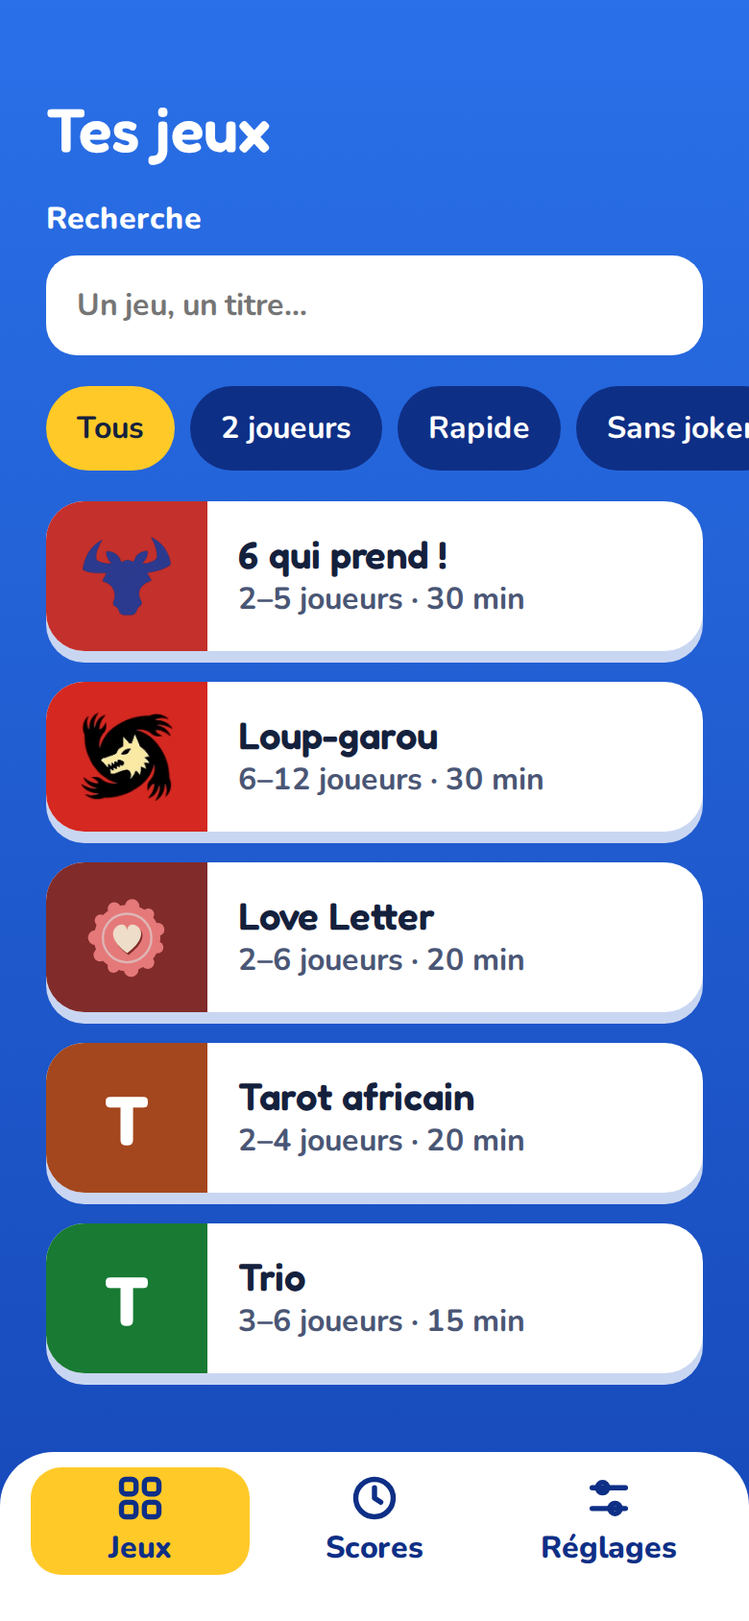
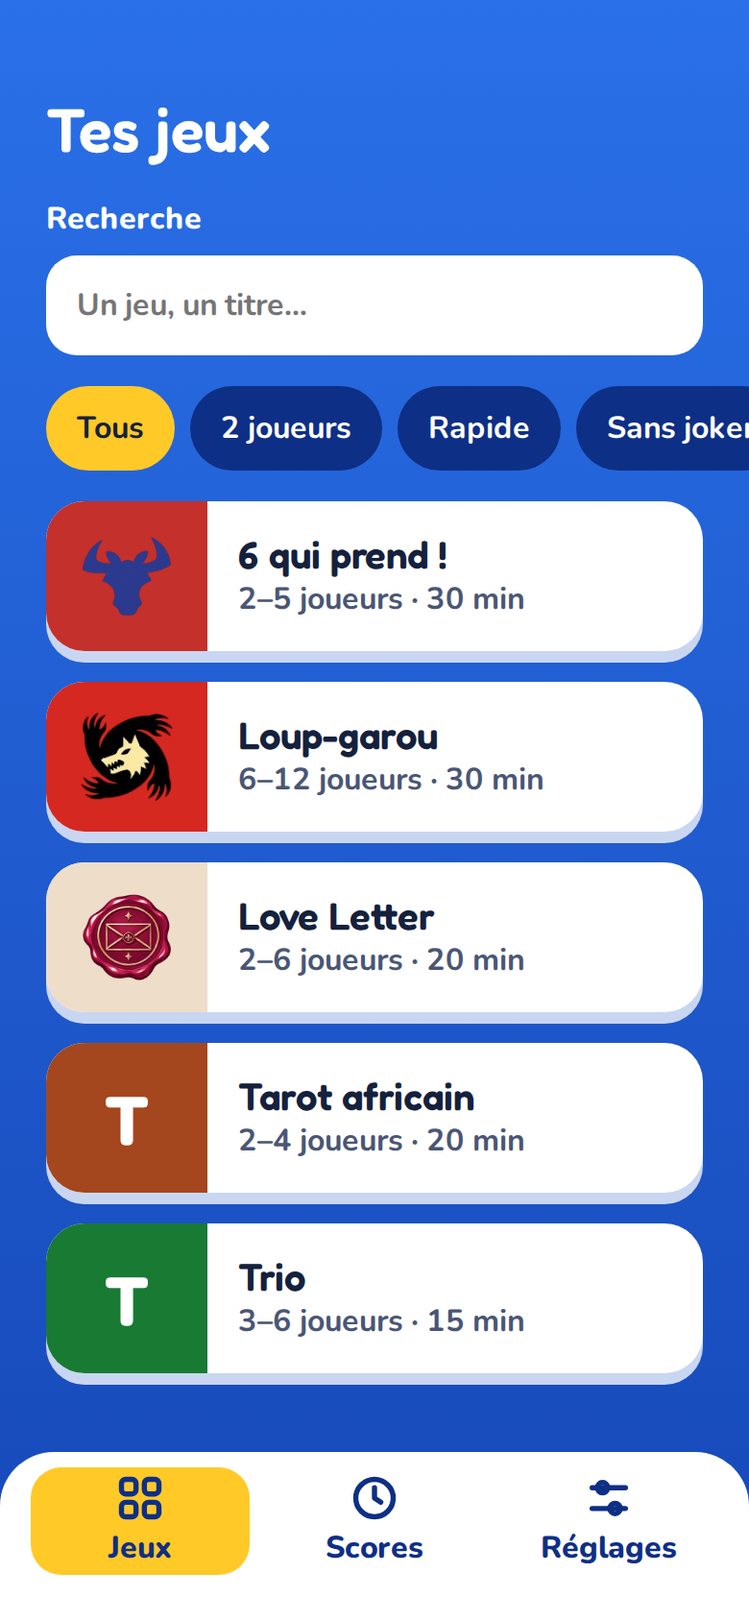
Love Letter : nouveau sceau de cire sur une vignette crème
Logo : sceau cramoisi à l'enveloppe dorée (image fournie, détourée, sans les gouttes).
Nouveau champ tile_color : fond du carré de la vignette de l'accueil (défaut main_color).

Changed region(s): [[0.0615, 0.5237, 0.2769, 0.6469]]

diff --git a/maquettes/love-letter/source/02-accueil.html b/maquettes/love-letter/source/02-accueil.html
@@ -1,1 +1,1 @@
-<!doctype html><html lang="fr"><head><meta charset="utf-8"><title>Love Letter · Games</title><link rel="stylesheet" href="https://fonts.googleapis.com/css2?family=Fredoka:wght@500;600;700&amp;family=Nunito:wght@600;700;800&amp;family=Great+Vibes&amp;display=swap"><style>*{box-sizing:border-box}body{margin:0}button,input{font-family:Nunito,sans-serif}</style></head><body><div style="width:390px;height:844px;box-sizing:border-box;overflow:hidden;display:flex;flex-direction:column;font-family:Nunito,sans-serif;font-weight:700;font-size:16px;color:#fff;background:linear-gradient(180deg,#2A70E8,#1648B8)"><div style="padding:48px 24px 24px;display:flex;flex-direction:column;gap:16px;flex:1;"><h1 style="margin:0;font-family:Fredoka,sans-serif;font-weight:600;font-size:32px;color:#fff">Tes jeux</h1><label style="display:flex;flex-direction:column;gap:8px;color:#fff;font-weight:800">Recherche<input type="text" placeholder="Un jeu, un titre…" style="min-height:52px;box-sizing:border-box;border:0;border-radius:16px;padding:0 16px;font-size:16px;font-weight:700;color:#14213D"></label><div style="display:flex;gap:8px;margin:0 -24px;padding:0 24px;overflow:hidden"><span style="flex:none;white-space:nowrap;min-height:44px;box-sizing:border-box;display:inline-flex;align-items:center;padding:0 16px;border-radius:22px;background:#FFC928;color:#14213D">Tous</span><span style="flex:none;white-space:nowrap;min-height:44px;box-sizing:border-box;display:inline-flex;align-items:center;padding:0 16px;border-radius:22px;background:#0E2F86;color:#fff">2 joueurs</span><span style="flex:none;white-space:nowrap;min-height:44px;box-sizing:border-box;display:inline-flex;align-items:center;padding:0 16px;border-radius:22px;background:#0E2F86;color:#fff">Rapide</span><span style="flex:none;white-space:nowrap;min-height:44px;box-sizing:border-box;display:inline-flex;align-items:center;padding:0 16px;border-radius:22px;background:#0E2F86;color:#fff">Sans joker</span></div><div style="display:flex;border-radius:20px;overflow:hidden;background:#fff;box-shadow:0 6px 0 #C9D6F2"><div style="width:84px;background:#C4302B;color:#fff;display:flex;align-items:center;justify-content:center;font-family:Fredoka,sans-serif;font-weight:700;font-size:36px"><img src="/__games/6-qui-prend/logo.png" alt="" style="width:60%;height:60%;object-fit:contain"></div><div style="padding:16px;color:#14213D"><div style="font-family:Fredoka,sans-serif;font-weight:600;font-size:20px">6 qui prend !</div><div style="color:#4A5675">2–5 joueurs · 30 min</div></div></div><div style="display:flex;border-radius:20px;overflow:hidden;background:#fff;box-shadow:0 6px 0 #C9D6F2"><div style="width:84px;background:#D42821;color:#fff;display:flex;align-items:center;justify-content:center;font-family:Fredoka,sans-serif;font-weight:700;font-size:36px"><img src="/__games/loup-garou/logo.png" alt="" style="width:60%;height:60%;object-fit:contain"></div><div style="padding:16px;color:#14213D"><div style="font-family:Fredoka,sans-serif;font-weight:600;font-size:20px">Loup-garou</div><div style="color:#4A5675">6–12 joueurs · 30 min</div></div></div><div style="display:flex;border-radius:20px;overflow:hidden;background:#fff;box-shadow:0 6px 0 #C9D6F2"><div style="width:84px;background:#812B2B;color:#EEDDC8;display:flex;align-items:center;justify-content:center;font-family:Fredoka,sans-serif;font-weight:700;font-size:36px"><svg aria-hidden="true" viewBox="0 0 100 100" style="width:60%;height:60%"><g fill="#E57979"><circle cx="50" cy="50" r="37"/><circle cx="83.9" cy="60.5" r="6.5"/><circle cx="72.9" cy="77.2" r="7.3"/><circle cx="54.5" cy="85.2" r="8.1"/><circle cx="34.8" cy="82.1" r="6.5"/><circle cx="19.9" cy="68.8" r="7.3"/><circle cx="14.5" cy="49.5" r="8.1"/><circle cx="20.4" cy="30.4" r="6.5"/><circle cx="35.7" cy="17.5" r="7.3"/><circle cx="55.6" cy="14.9" r="8.1"/><circle cx="73.6" cy="23.5" r="6.5"/><circle cx="84.2" cy="40.5" r="7.3"/></g><circle cx="50" cy="50" r="27" fill="none" stroke="#DFB6B6" stroke-width="2.5"/><path d="M50 90 C8 60 4 30 26 17 C39 10 50 18 50 30 C50 18 61 10 74 17 C96 30 92 60 50 90 Z" transform="translate(30.5 31) scale(0.42)" fill="#812B2B"/><path d="M50 90 C8 60 4 30 26 17 C39 10 50 18 50 30 C50 18 61 10 74 17 C96 30 92 60 50 90 Z" transform="translate(29 29) scale(0.42)" fill="#EEDDC8"/></svg></div><div style="padding:16px;color:#14213D"><div style="font-family:Fredoka,sans-serif;font-weight:600;font-size:20px">Love Letter</div><div style="color:#4A5675">2–6 joueurs · 20 min</div></div></div><div style="display:flex;border-radius:20px;overflow:hidden;background:#fff;box-shadow:0 6px 0 #C9D6F2"><div style="width:84px;background:#A4471E;color:#fff;display:flex;align-items:center;justify-content:center;font-family:Fredoka,sans-serif;font-weight:700;font-size:36px">T</div><div style="padding:16px;color:#14213D"><div style="font-family:Fredoka,sans-serif;font-weight:600;font-size:20px">Tarot africain</div><div style="color:#4A5675">2–4 joueurs · 20 min</div></div></div><div style="display:flex;border-radius:20px;overflow:hidden;background:#fff;box-shadow:0 6px 0 #C9D6F2"><div style="width:84px;background:#187A33;color:#fff;display:flex;align-items:center;justify-content:center;font-family:Fredoka,sans-serif;font-weight:700;font-size:36px">T</div><div style="padding:16px;color:#14213D"><div style="font-family:Fredoka,sans-serif;font-weight:600;font-size:20px">Trio</div><div style="color:#4A5675">3–6 joueurs · 15 min</div></div></div></div><nav data-component="BottomNav" style="display:flex;gap:8px;padding:8px 16px 24px;background:#fff;border-radius:28px 28px 0 0"><div style="flex:1;min-height:56px;display:flex;flex-direction:column;align-items:center;justify-content:center;gap:2px;border-radius:16px;background:#FFC928;color:#0E2F86;font-size:16px;font-weight:800"><svg aria-hidden="true" width="26" height="26" viewBox="0 0 24 24" fill="none" stroke="#0E2F86" stroke-width="2.5" stroke-linecap="round" stroke-linejoin="round"><rect x="3" y="3" width="7" height="7" rx="2"></rect><rect x="14" y="3" width="7" height="7" rx="2"></rect><rect x="3" y="14" width="7" height="7" rx="2"></rect><rect x="14" y="14" width="7" height="7" rx="2"></rect></svg>Jeux</div><div style="flex:1;min-height:56px;display:flex;flex-direction:column;align-items:center;justify-content:center;gap:2px;border-radius:16px;background:transparent;color:#0E2F86;font-size:16px;font-weight:800"><svg aria-hidden="true" width="26" height="26" viewBox="0 0 24 24" fill="none" stroke="#0E2F86" stroke-width="2.5" stroke-linecap="round" stroke-linejoin="round"><circle cx="12" cy="12" r="9"></circle><path d="M12 7v5l3 2"></path></svg>Scores</div><div style="flex:1;min-height:56px;display:flex;flex-direction:column;align-items:center;justify-content:center;gap:2px;border-radius:16px;background:transparent;color:#0E2F86;font-size:16px;font-weight:800"><svg aria-hidden="true" width="26" height="26" viewBox="0 0 24 24" fill="none" stroke="#0E2F86" stroke-width="2.5" stroke-linecap="round" stroke-linejoin="round"><path d="M4 7h16M4 17h16"></path><circle cx="9" cy="7" r="2.5"></circle><circle cx="15" cy="17" r="2.5"></circle></svg>Réglages</div></nav></div></body></html>
+<!doctype html><html lang="fr"><head><meta charset="utf-8"><title>Love Letter · Games</title><link rel="stylesheet" href="https://fonts.googleapis.com/css2?family=Fredoka:wght@500;600;700&amp;family=Nunito:wght@600;700;800&amp;family=Great+Vibes&amp;display=swap"><style>*{box-sizing:border-box}body{margin:0}button,input{font-family:Nunito,sans-serif}</style></head><body><div style="width:390px;height:844px;box-sizing:border-box;overflow:hidden;display:flex;flex-direction:column;font-family:Nunito,sans-serif;font-weight:700;font-size:16px;color:#fff;background:linear-gradient(180deg,#2A70E8,#1648B8)"><div style="padding:48px 24px 24px;display:flex;flex-direction:column;gap:16px;flex:1;"><h1 style="margin:0;font-family:Fredoka,sans-serif;font-weight:600;font-size:32px;color:#fff">Tes jeux</h1><label style="display:flex;flex-direction:column;gap:8px;color:#fff;font-weight:800">Recherche<input type="text" placeholder="Un jeu, un titre…" style="min-height:52px;box-sizing:border-box;border:0;border-radius:16px;padding:0 16px;font-size:16px;font-weight:700;color:#14213D"></label><div style="display:flex;gap:8px;margin:0 -24px;padding:0 24px;overflow:hidden"><span style="flex:none;white-space:nowrap;min-height:44px;box-sizing:border-box;display:inline-flex;align-items:center;padding:0 16px;border-radius:22px;background:#FFC928;color:#14213D">Tous</span><span style="flex:none;white-space:nowrap;min-height:44px;box-sizing:border-box;display:inline-flex;align-items:center;padding:0 16px;border-radius:22px;background:#0E2F86;color:#fff">2 joueurs</span><span style="flex:none;white-space:nowrap;min-height:44px;box-sizing:border-box;display:inline-flex;align-items:center;padding:0 16px;border-radius:22px;background:#0E2F86;color:#fff">Rapide</span><span style="flex:none;white-space:nowrap;min-height:44px;box-sizing:border-box;display:inline-flex;align-items:center;padding:0 16px;border-radius:22px;background:#0E2F86;color:#fff">Sans joker</span></div><div style="display:flex;border-radius:20px;overflow:hidden;background:#fff;box-shadow:0 6px 0 #C9D6F2"><div style="width:84px;background:#C4302B;color:#fff;display:flex;align-items:center;justify-content:center;font-family:Fredoka,sans-serif;font-weight:700;font-size:36px"><img src="/__games/6-qui-prend/logo.png" alt="" style="width:60%;height:60%;object-fit:contain"></div><div style="padding:16px;color:#14213D"><div style="font-family:Fredoka,sans-serif;font-weight:600;font-size:20px">6 qui prend !</div><div style="color:#4A5675">2–5 joueurs · 30 min</div></div></div><div style="display:flex;border-radius:20px;overflow:hidden;background:#fff;box-shadow:0 6px 0 #C9D6F2"><div style="width:84px;background:#D42821;color:#fff;display:flex;align-items:center;justify-content:center;font-family:Fredoka,sans-serif;font-weight:700;font-size:36px"><img src="/__games/loup-garou/logo.png" alt="" style="width:60%;height:60%;object-fit:contain"></div><div style="padding:16px;color:#14213D"><div style="font-family:Fredoka,sans-serif;font-weight:600;font-size:20px">Loup-garou</div><div style="color:#4A5675">6–12 joueurs · 30 min</div></div></div><div style="display:flex;border-radius:20px;overflow:hidden;background:#fff;box-shadow:0 6px 0 #C9D6F2"><div style="width:84px;background:#EEDDC8;color:#14213D;display:flex;align-items:center;justify-content:center;font-family:Fredoka,sans-serif;font-weight:700;font-size:36px"><img src="/__games/love-letter/logo.png" alt="" style="width:60%;height:60%;object-fit:contain"></div><div style="padding:16px;color:#14213D"><div style="font-family:Fredoka,sans-serif;font-weight:600;font-size:20px">Love Letter</div><div style="color:#4A5675">2–6 joueurs · 20 min</div></div></div><div style="display:flex;border-radius:20px;overflow:hidden;background:#fff;box-shadow:0 6px 0 #C9D6F2"><div style="width:84px;background:#A4471E;color:#fff;display:flex;align-items:center;justify-content:center;font-family:Fredoka,sans-serif;font-weight:700;font-size:36px">T</div><div style="padding:16px;color:#14213D"><div style="font-family:Fredoka,sans-serif;font-weight:600;font-size:20px">Tarot africain</div><div style="color:#4A5675">2–4 joueurs · 20 min</div></div></div><div style="display:flex;border-radius:20px;overflow:hidden;background:#fff;box-shadow:0 6px 0 #C9D6F2"><div style="width:84px;background:#187A33;color:#fff;display:flex;align-items:center;justify-content:center;font-family:Fredoka,sans-serif;font-weight:700;font-size:36px">T</div><div style="padding:16px;color:#14213D"><div style="font-family:Fredoka,sans-serif;font-weight:600;font-size:20px">Trio</div><div style="color:#4A5675">3–6 joueurs · 15 min</div></div></div></div><nav data-component="BottomNav" style="display:flex;gap:8px;padding:8px 16px 24px;background:#fff;border-radius:28px 28px 0 0"><div style="flex:1;min-height:56px;display:flex;flex-direction:column;align-items:center;justify-content:center;gap:2px;border-radius:16px;background:#FFC928;color:#0E2F86;font-size:16px;font-weight:800"><svg aria-hidden="true" width="26" height="26" viewBox="0 0 24 24" fill="none" stroke="#0E2F86" stroke-width="2.5" stroke-linecap="round" stroke-linejoin="round"><rect x="3" y="3" width="7" height="7" rx="2"></rect><rect x="14" y="3" width="7" height="7" rx="2"></rect><rect x="3" y="14" width="7" height="7" rx="2"></rect><rect x="14" y="14" width="7" height="7" rx="2"></rect></svg>Jeux</div><div style="flex:1;min-height:56px;display:flex;flex-direction:column;align-items:center;justify-content:center;gap:2px;border-radius:16px;background:transparent;color:#0E2F86;font-size:16px;font-weight:800"><svg aria-hidden="true" width="26" height="26" viewBox="0 0 24 24" fill="none" stroke="#0E2F86" stroke-width="2.5" stroke-linecap="round" stroke-linejoin="round"><circle cx="12" cy="12" r="9"></circle><path d="M12 7v5l3 2"></path></svg>Scores</div><div style="flex:1;min-height:56px;display:flex;flex-direction:column;align-items:center;justify-content:center;gap:2px;border-radius:16px;background:transparent;color:#0E2F86;font-size:16px;font-weight:800"><svg aria-hidden="true" width="26" height="26" viewBox="0 0 24 24" fill="none" stroke="#0E2F86" stroke-width="2.5" stroke-linecap="round" stroke-linejoin="round"><path d="M4 7h16M4 17h16"></path><circle cx="9" cy="7" r="2.5"></circle><circle cx="15" cy="17" r="2.5"></circle></svg>Réglages</div></nav></div></body></html>

diff --git a/src/data/theme.ts b/src/data/theme.ts
@@ -25,6 +25,8 @@ export interface GameTheme {
   text: string
   /** Ombre en relief de `main`. */
   shadow: string
+  /** Carré de la vignette sur l'accueil (`tile_color`, défaut `main`) et texte de l'initiale dessus. */
+  tile: { bg: string; text: string }
   /** Fond des écrans du jeu. Absent : le bleu de l'app. */
   screen?: ScreenTheme
   /** Couleur du dos des cartes. */
@@ -90,22 +92,26 @@ type ThemeInput = Pick<Game, 'main_color' | 'font'> &
       | 'background_text_color'
       | 'card_back_color'
       | 'card_back_stripe_color'
+      | 'tile_color'
     >
   >
 
 /**
  * Thème d'un jeu : `main_color` (avec son texte et son ombre, calculés ou donnés par `text_color` et `shadow_color`),
- * fond des écrans (`background_color`, avec son texte), dos des cartes (`card_back_color`, par défaut `main_color`).
+ * vignette de l'accueil (`tile_color`, défaut `main_color`), fond des écrans (`background_color`, avec son texte), dos des cartes (`card_back_color`, par défaut `main_color`).
  * Refuse tout texte sous 4,5 de contraste. Le test des jeux garantit qu'aucun jeu livré ne lève cette erreur.
  */
 export function resolveGameTheme(game: ThemeInput): GameTheme {
   const main = colorHex(game.main_color)
+  const text = resolveText('le tapis', [main], game.text_color, 'text_color')
+  const tile = game.tile_color?.toUpperCase()
   const base = game.background_color ? colorHex(game.background_color) : undefined
   const ends = base ? [base, tint(base, GRADIENT_TOP_KEEP), shade(base, GRADIENT_BOTTOM_KEEP)] : []
   return {
     main,
-    text: resolveText('le tapis', [main], game.text_color, 'text_color'),
+    text,
     shadow: game.shadow_color?.toUpperCase() ?? shadowOfMain(game.main_color, main),
+    tile: tile ? { bg: tile, text: resolveText('la vignette', [tile], undefined, 'tile_color') } : { bg: main, text },
     screen: base
       ? {
           base,

diff --git a/src/data/games.test.ts b/src/data/games.test.ts
@@ -267,6 +267,7 @@ describe.each(games.map((game) => [game.id, game] as const))('jeu « %s »', (id
     it('a un contraste texte / fond d’au moins 4,5', () => {
       const theme = resolveGameTheme(game)
       expect(contrastRatio(theme.main, theme.text)).toBeGreaterThanOrEqual(MIN_CONTRAST)
+      expect(contrastRatio(theme.tile.bg, theme.tile.text), 'vignette').toBeGreaterThanOrEqual(MIN_CONTRAST)
     })
 
     it('a un texte lisible sur tout le fond des écrans, s’il en donne un', () => {
@@ -575,7 +576,7 @@ describe('Love Letter', () => {
     expect(ll.tutorial.setup.center.every((item) => !item.card)).toBe(true)
   })
 
-  it('prend la palette bordeaux : couleur du jeu, relief, texte et fond crème, dos corail, sceau de cire pour logo', () => {
+  it('prend la palette bordeaux : couleur du jeu, relief, texte et fond crème, dos corail, sceau de cire sur crème pour logo', () => {
     const theme = resolveGameTheme(ll)
     expect(theme.main).toBe('#812B2B')
     expect(theme.shadow).toBe('#400E0E')
@@ -583,8 +584,10 @@ describe('Love Letter', () => {
     expect(theme.screen?.base).toBe('#EEDDC8')
     expect(theme.screen?.text).toBe(tokens.colors.encre)
     expect(theme.cardBack).toBe('#E57979')
-    expect(ll.logo).toBe('logo.svg')
+    expect(ll.logo).toBe('logo.png')
     expect(logoUrl(ll)).toBeTruthy()
+    // Le sceau cramoisi se fondrait dans le bordeaux : la vignette est crème, l'initiale (inutile ici) en encre.
+    expect(theme.tile).toEqual({ bg: '#EEDDC8', text: tokens.colors.encre })
   })
 
   it('dessine les 10 cartes d’origine, de 0 à 9, avec leur nom', () => {

diff --git a/src/components/GameTile/GameTile.tsx b/src/components/GameTile/GameTile.tsx
@@ -1,3 +1,4 @@
+import type { CSSProperties } from 'react'
 import { Link } from 'react-router'
 import { fr } from '../../i18n/fr.ts'
 import { logoUrl } from '../../data/games.ts'
@@ -12,14 +13,16 @@ export interface GameTileProps {
 }
 
 /**
- * Vignette d'un jeu sur l'accueil : un carré aux couleurs du jeu avec son logo ou son initiale, puis le nom
+ * Vignette d'un jeu sur l'accueil : un carré aux couleurs du jeu (ou `tile_color`) avec son logo ou son initiale, puis le nom
  * et « 2–4 joueurs · 20 min » sur fond blanc.
  */
 export function GameTile({ game }: GameTileProps) {
   const theme = resolveGameTheme(game)
   const url = logoUrl(game)
+  // Le carré a sa propre couleur (`tile_color`, défaut la couleur du jeu) : un logo qui se fondrait dans le tapis.
+  const style = { ...themeStyle(theme), '--tile-bg': theme.tile.bg, '--tile-fg': theme.tile.text } as CSSProperties
   return (
-    <Link to={paths.game(game.id)} className={styles.tile} style={themeStyle(theme)}>
+    <Link to={paths.game(game.id)} className={styles.tile} style={style}>
       <span className={styles.mark} aria-hidden="true">
         {url ? <img className={styles.image} src={url} alt="" /> : game.name.charAt(0).toUpperCase()}
       </span>

diff --git a/src/data/types.ts b/src/data/types.ts
@@ -249,6 +249,8 @@ interface GameBase {
   text_color?: string
   /** Nom d'un fichier du dossier du jeu (svg ou png). Absent : initiale dans un rond blanc. */
   logo?: string
+  /** Couleur libre `#RRGGBB` du carré de la vignette sur l'accueil, derrière le logo. Absent : le tapis. */
+  tile_color?: string
   /** Phrase d'accroche en gras, sur la page du jeu. */
   tagline: string
   /** Texte qui suit la phrase d'accroche. */

diff --git a/src/components/GameTile/GameTile.module.css b/src/components/GameTile/GameTile.module.css
@@ -29,8 +29,8 @@
   align-items: center;
   justify-content: center;
   width: calc(var(--mc-space-5) * 1.75);
-  background: var(--game-bg);
-  color: var(--game-fg);
+  background: var(--tile-bg, var(--game-bg));
+  color: var(--tile-fg, var(--game-fg));
   font-family: var(--mc-font-title);
   font-weight: 700;
   font-size: calc(var(--mc-text-min) * 2.25);

diff --git a/docs/CAHIER_DES_CHARGES.md b/docs/CAHIER_DES_CHARGES.md
@@ -142,7 +142,7 @@ Règle de contraste automatique : calculer le ratio WCAG entre la couleur de fon
 ## 6. Contraintes légales (point bloquant)
 
 - **Ne jamais reproduire** les logos, lettrages ou illustrations officiels.
-- Évocation **originale** seulement. Ex. Love Letter : police calligraphique libre (Great Vibes) + sceau de cire **redessiné**.
+- Évocation **originale** seulement. Ex. Love Letter : police calligraphique libre (Great Vibes) + sceau de cire **original** (image générique fournie par l'utilisateur, détourée).
 - Les noms de jeux sont cités à titre descriptif. **Droits à vérifier avant publication** (marques, règles, stores).
 - Vérifier la licence de chaque police et de chaque asset.
 - Ajouter une mention dans l'app : « Application non officielle, sans lien avec les éditeurs des jeux cités. »
@@ -229,7 +229,7 @@ Premier lancement, liste vide, jeu / groupe / page introuvable (avec retour), pa
 | **Love Letter** : 21 cartes, règle de l'édition 2019 (10 personnages de 0 à 9, 2 à 6 joueurs), au lieu des 16 de la galerie | Règles données par l'utilisateur (nos-jeux-de-societe.fr). Les jokers sont les Espionnes, la dame de cœur est la Princesse, les 6 Gardes sont 4 valets et 2 rois noirs, valeur = rang pour 2 à 8 ; « Garde ces 21 cartes, dont 2 jokers. Retire tout le reste du paquet. » |
 | **Love Letter** : lignes de liste au format de Trio (« Valets et rois noirs » / « 6 cartes » / « Devine… ») ; vue à balayer, mise en place sans la ligne vide, sources reconstruites d'après Trio | La galerie est une version antérieure : la mise en page validée de Trio prime. En mode connaisseur la ligne dit le nom d'origine (« Garde »). |
 | **Love Letter** : textes « Fin de manche » et « Cas particuliers » | La galerie contient des `[…]` : textes rédigés d'après la règle (1 point par manche, jokers, égalités, 6 / 5 / 4 / 3 / 3 points), à relire. Les textes de détail des groupes aussi. Les maquettes 02, 03, 04, 05, 06, 07, 08, 09 ont été refaites pour la nouvelle règle. |
-| **Love Letter** : tapis bordeaux #812B2B, ombre brun #400E0E, texte crème #EEDDC8 et logo en sceau de cire, au lieu du rouge de la charte et de la lettre « L » | Palette fournie par l'utilisateur. Le rose #DFB6B6 et le corail #E57979 ne servent qu'au logo (1,8 et 2,9 de contraste sur blanc). Maquettes 02, 03 et 10 refaites. |
+| **Love Letter** : tapis bordeaux #812B2B, ombre brun #400E0E, texte crème #EEDDC8 et logo en sceau de cire (cramoisi, enveloppe dorée) sur une vignette crème (`tile_color`), au lieu du rouge de la charte et de la lettre « L » | Palette fournie par l'utilisateur. Le sceau se fondrait dans le bordeaux : seule la vignette de l'accueil passe au crème. Le corail #E57979 ne sert qu'au dos des cartes. Maquettes 02, 03 et 10 refaites. |
 | **Love Letter** : mise en place sans les 3 cartes visibles à 2 joueurs | Le mode particulier à 2 joueurs est abandonné (demande de l'utilisateur) : schéma à deux éléments, quatre étapes, pas de « Cas particuliers ». Maquettes 04 et 08 refaites. |
 | **Love Letter** : fond **crème** sur tous les écrans du jeu (au lieu du bleu), pastilles et bascules bordeaux, texte encre, relief « tan » des surfaces blanches, dos corail | Nouveau principe `background_color` (demande de l'utilisateur) : l'écran du jeu prend la palette. Maquettes 03 à 09 et 11 à 13 refaites ; 02, 14 et 15 (hors du jeu) gardent le bleu. |
 | Mise en place : la table à quatre mains, le centre au milieu, au lieu de deux éléments côte à côte | Demande de l'utilisateur : montrer la table entière (les mains des joueurs et ce qui se pose au centre). Les mains sont en éventail incliné, comme celles de « Tes cartes » ; le centre de Trio est en cartes alignées ; les quatre mains sont à la même distance du centre. « Un tour » montre **la même table** (mêmes dimensions, mêmes positions, mêmes légendes) avec quelques cartes retournées ; la page peut alors défiler (choix de l'utilisateur). Ses étapes sont resserrées. Maquettes de Trio 05 et 06 et de Love Letter 08 et 09 refaites. |
@@ -284,7 +284,8 @@ shadow_color: '#400E0E' # brun
 text_color: '#EEDDC8' # crème
 background_color: '#EEDDC8' # fond des écrans du jeu
 card_back_color: '#E57979' # corail
-logo: logo.svg # sceau de cire
+logo: logo.png # sceau de cire
+tile_color: '#EEDDC8' # vignette crème
 tagline: Une lettre. Une princesse. Un seul gagnant.
 description: …
 players: { min: 2, max: 6 }
@@ -361,7 +362,7 @@ Un test automatisé (`src/data/games.test.ts`, Vitest + Ajv) vérifie **chaque j
 
 ### 9.3 Jeux livrés en v1
 1. **Trio** *(réalisé, d'après les maquettes)*. Fin automatique au 3e trio. 36 cartes d'origine (valeurs 1 à 12 en trois exemplaires) jouées avec le paquet de 52 : on garde pique, cœur et trèfle de l'As à la Dame, et on **retire les carreaux et les rois**. As = 1, Valet = 11, Dame = 12. Six groupes : A, 2 à 6, 7 (« Spécial »), 8 à 10, Valet, Dame. 3 à 6 joueurs, environ 15 minutes. Le mode « Piquant » n'est pas jouable : ses liens entre numéros sont imprimés sur les cartes d'origine.
-2. **Love Letter** *(réalisé, règle de l'édition 2019)*. 2 à 6 joueurs, 20 minutes, nom en Great Vibes, palette bordeaux (tapis #812B2B, ombre #400E0E, texte crème #EEDDC8) et un sceau de cire original (corail, rose, crème) en logo. **21 cartes**, valeur = rang : Espionne 0 = les 2 **jokers** (rien ne se passe quand on la joue ; 1 point en fin de manche si l'on est en vie et **seul** à en avoir une devant soi) ; Garde 1 = 4 valets et 2 rois noirs (×6) ; Prêtre 2, Baron 3, Servante 4, Prince 5, Chancelier 6 (×2 chacun, cœur et pique) ; Roi 7 = 7♥ ; Comtesse 8 = 8♠ ; Princesse 9 = la **dame de cœur**. Dix groupes. Tout le reste du paquet est retiré. Une manche rapporte 1 point (2 au plus avec les jokers) ; le premier à 6, 5, 4, 3 ou 3 points gagne à 2, 3, 4, 5 ou 6 joueurs.
+2. **Love Letter** *(réalisé, règle de l'édition 2019)*. 2 à 6 joueurs, 20 minutes, nom en Great Vibes, palette bordeaux (tapis #812B2B, ombre #400E0E, texte crème #EEDDC8) et un sceau de cire cramoisi à l'enveloppe dorée en logo (`logo.png`, image fournie par l'utilisateur, détourée, sans les gouttes), sur une vignette crème (`tile_color`). **21 cartes**, valeur = rang : Espionne 0 = les 2 **jokers** (rien ne se passe quand on la joue ; 1 point en fin de manche si l'on est en vie et **seul** à en avoir une devant soi) ; Garde 1 = 4 valets et 2 rois noirs (×6) ; Prêtre 2, Baron 3, Servante 4, Prince 5, Chancelier 6 (×2 chacun, cœur et pique) ; Roi 7 = 7♥ ; Comtesse 8 = 8♠ ; Princesse 9 = la **dame de cœur**. Dix groupes. Tout le reste du paquet est retiré. Une manche rapporte 1 point (2 au plus avec les jokers) ; le premier à 6, 5, 4, 3 ou 3 points gagne à 2, 3, 4, 5 ou 6 joueurs.
 
 3. **6 qui prend !** *(réalisé, version MastersCards)*. Nom en Grenze Gotisch Black (OFL), le « 6 » en bleu cerné de blanc (`name_accent`), le reste cerné de bleu (`name_outline`). 2 à 5 joueurs, 30 minutes, tapis rouge de la boîte (#C4302B) et logo tête de taureau bleue (#2B3A8F, silhouette fournie par l'utilisateur). Mode Connaisseur, « Tes cartes » : cartes d'origine 1-7-13, 15-19-22, 30-35-39, 40-46-52 et 53-54, chacune aux couleurs de son nombre de têtes, taureau en grand et numéro par-dessus. **54 cartes** (le paquet et les 2 jokers), rien à retirer. Force : trèfle 1 à 13, pique 14 à 26, carreau 27 à 39, cœur 40 à 52, jokers 53 et 54 (« Tes cartes » : une ligne par couleur). Points (« Compter les points ») : dame de pique 7, rois 5, 10 3, 5 2, les autres 1. Fin dès qu'un joueur atteint 66 ; le moins de points gagne.
 4. **Tarot africain** *(réalisé, version MastersCards ; cahier : `build_ressources/MasterCards/TarotAfricain/CAHIER_DES_CHARGES.md`)*. 2 à 4 joueurs, 20 minutes, tapis terre cuite (#A4471E). Jeu de plis à annonces, joué d'origine avec les 22 atouts du tarot. **22 cartes** : pique as à 10 = 1 à 10, cœur as à 10 = 11 à 20, roi de cœur = 21, **1 joker** = l'Excuse (0 ou 22, au choix en la posant). Quatre groupes. Manches à 5, 4, 3, 2 puis 1 carte, et on recommence ; le donneur annonce en dernier sans faire tomber le total juste ; à la manche à 1 carte, chacun pose sa carte sur son front. 1 point par pli d'écart ; fin dès qu'un joueur atteint 13 ; le moins de points gagne.
